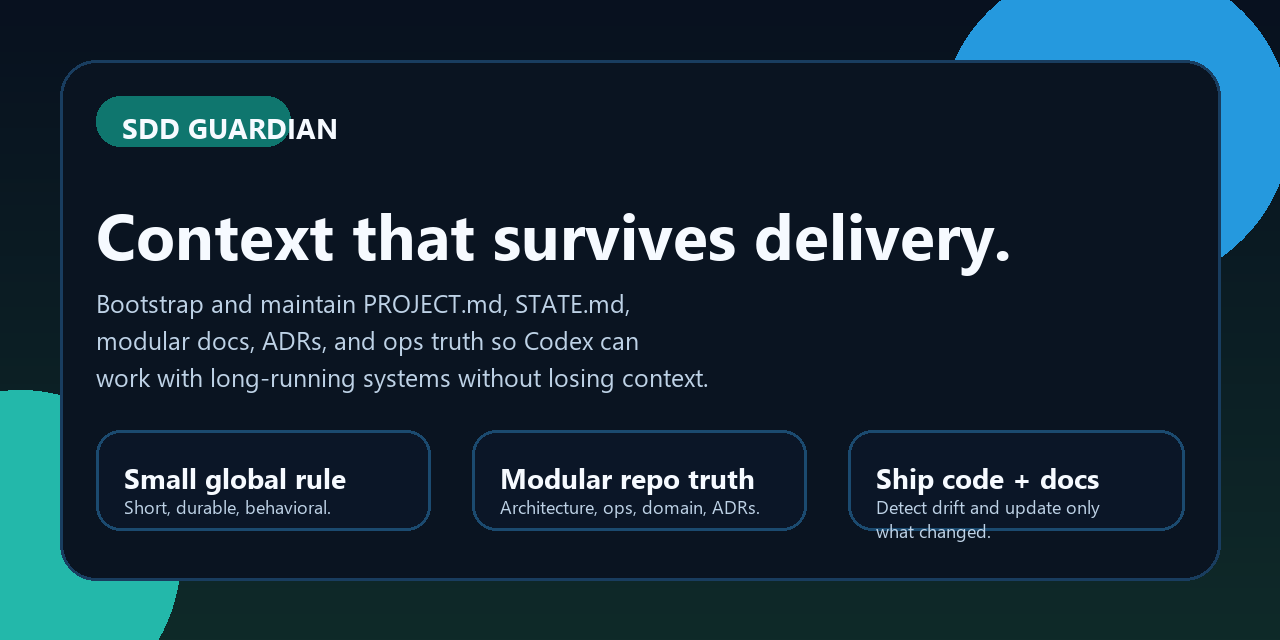
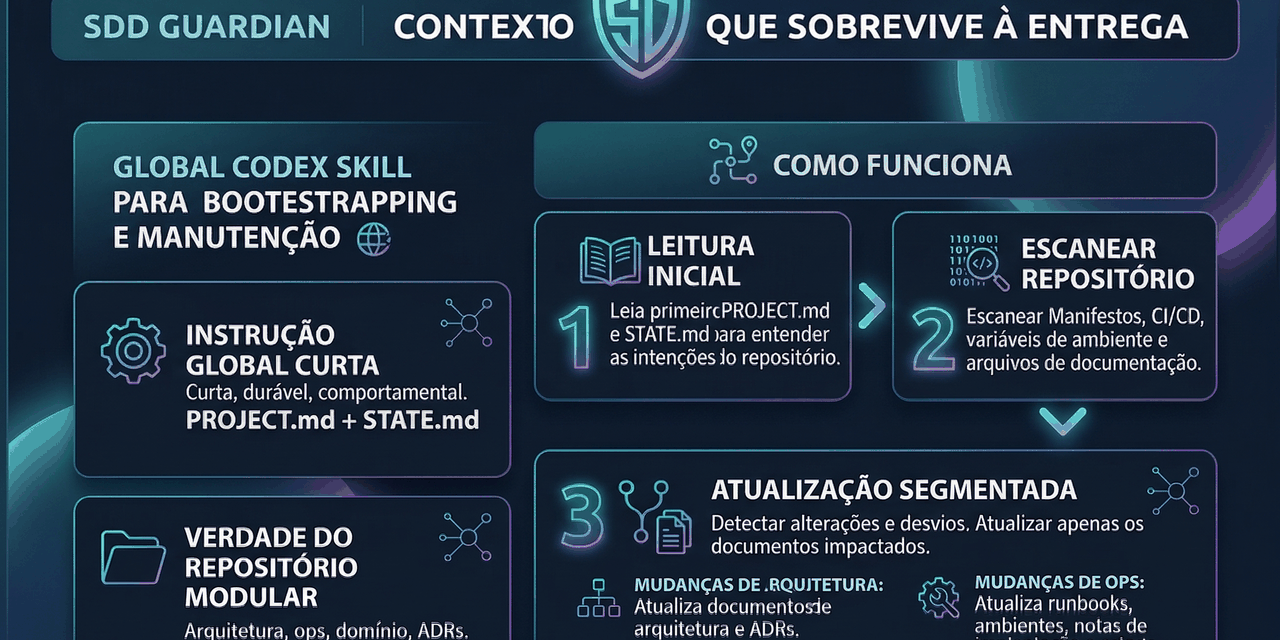
Swap README visuals for polished artwork

diff --git a/README.md b/README.md
@@ -1,7 +1,7 @@
 # SDD Guardian
 
 <p align="center">
-  <img src="./assets/readme/hero-overview.svg" alt="SDD Guardian overview" width="100%" />
+  <img src="./assets/readme/hero-overview.png" alt="SDD Guardian overview" width="100%" />
 </p>
 
 <p align="center">
@@ -64,7 +64,7 @@ flowchart LR
 ## Before / After
 
 <p align="center">
-  <img src="./assets/readme/before-after.svg" alt="Before and after documentation quality" width="100%" />
+  <img src="./assets/readme/before-after.png" alt="Before and after documentation quality" width="100%" />
 </p>
 
 **Before**
@@ -102,7 +102,7 @@ See [doc-pack.md](./docs/doc-pack.md) for the contract and update rules.
 ## Install globally in Codex
 
 <p align="center">
-  <img src="./assets/readme/install-flow.svg" alt="Install flow" width="100%" />
+  <img src="./assets/readme/install-flow.png" alt="Install flow" width="100%" />
 </p>
 
 ```powershell
